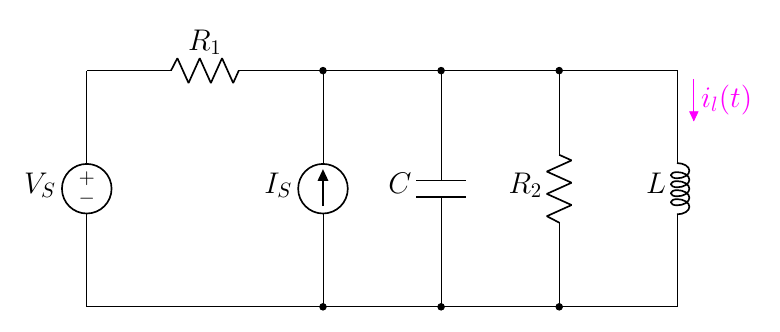
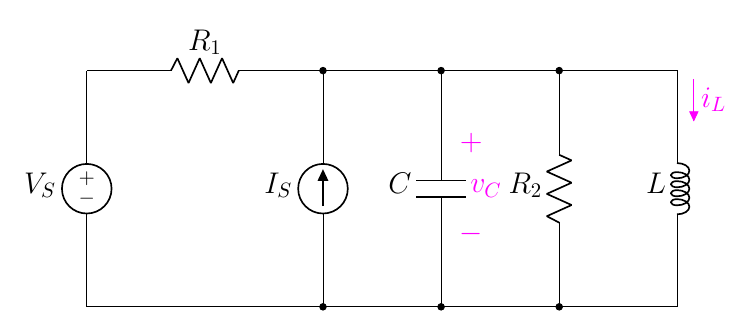
8.50

diff --git a/2.10 Step Response of a Parallel RLC/8.6 Complete Response Parallel/8.50(new).tex b/2.10 Step Response of a Parallel RLC/8.6 Complete Response Parallel/8.50(new).tex
@@ -37,8 +37,11 @@
     % \draw[magenta](9.2,3.5)
     %     to[open, v>=$v_c(t)$] ++(0,2);
 
+    \draw[magenta](6.2,1)
+    to[open, v>=$v_C$] ++(0,2);
+
     \draw[circuitikz/current arrow color=magenta](10,4)
-        to[open,f>^=$\color{magenta}{i_l(t)}$] ++(0,-2.4);
+        to[open,f>^=$\color{magenta}{i_L}$] ++(0,-2.4);
 
 \end{circuitikz}
 \end{document}
